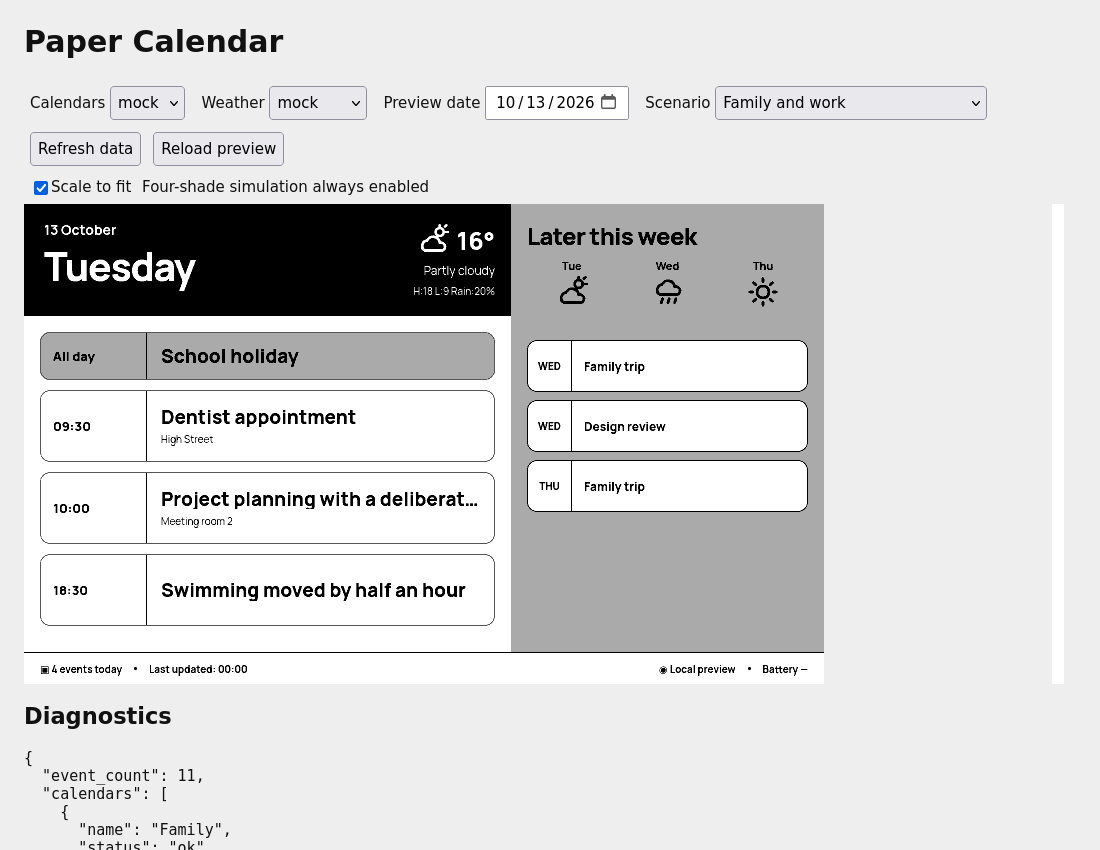
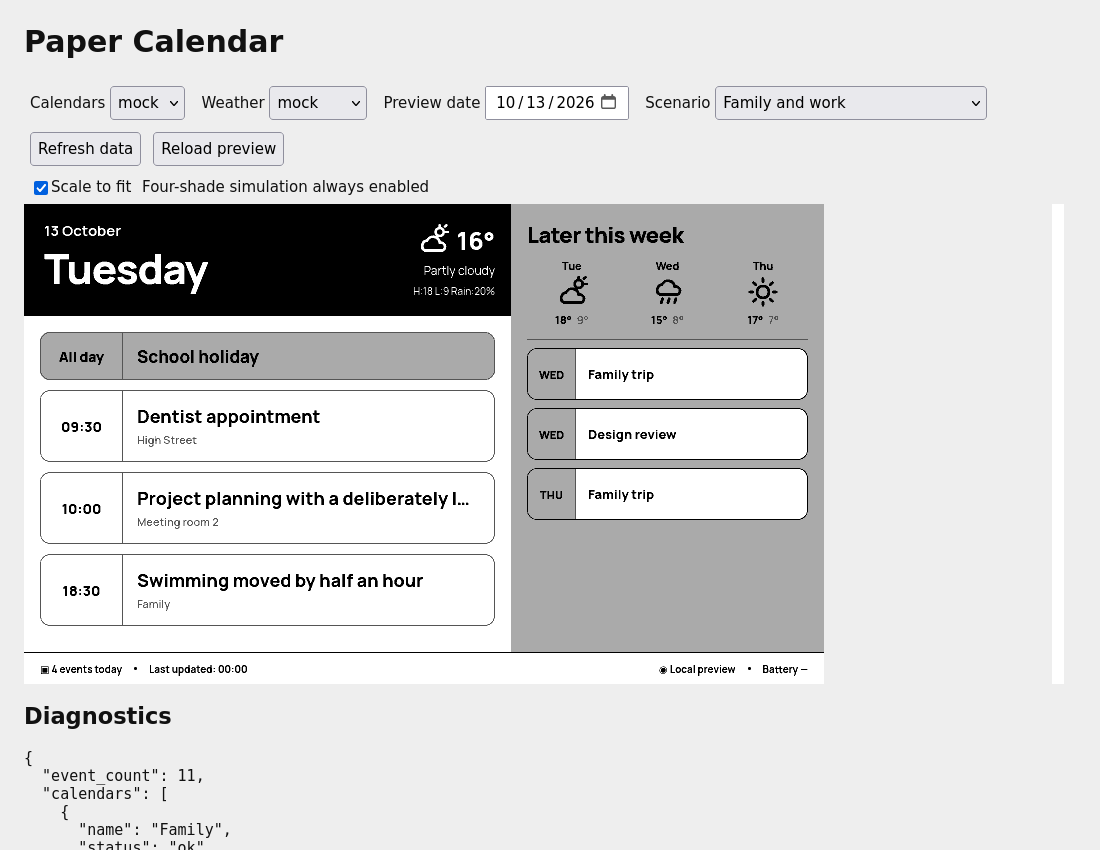
Refine calendar typography, event cards and forecast hierarchy

diff --git a/docs/DESIGN_PORT.md b/docs/DESIGN_PORT.md
@@ -14,6 +14,8 @@ Reference implementation: [original ESP32 renderer](https://github.com/simondoes
 
 The Liquid palette uses exactly four shades: black (`#000`), dark grey (`#555`) for Today card outlines, light grey (`#aaa`) for all-day cards and the sidebar, and white (`#fff`) for timed cards and the main panel. These shades survive the local preview's four-level quantization; the previous `#dedede` backgrounds mapped to white.
 
+Readability refinements retain the canvas and card heights: narrower centred time columns leave more room for titles, secondary text shows location or calendar name, upcoming cards support two title lines and shaded weekday labels, and forecasts include optional daily highs/lows with a separator above the agenda.
+
 ## What is not identical yet
 
 The C++ firmware has true native all-day flags, weather data and battery/Wi-Fi hardware state. Terminus's **native ICS parser does not expose a reliable normalized all-day flag** in its current event hashes; default ICS entries therefore render as timed entries, including midnight all-day dates. The all-day styling activates only if a future normalizer provides `all_day: true`.
